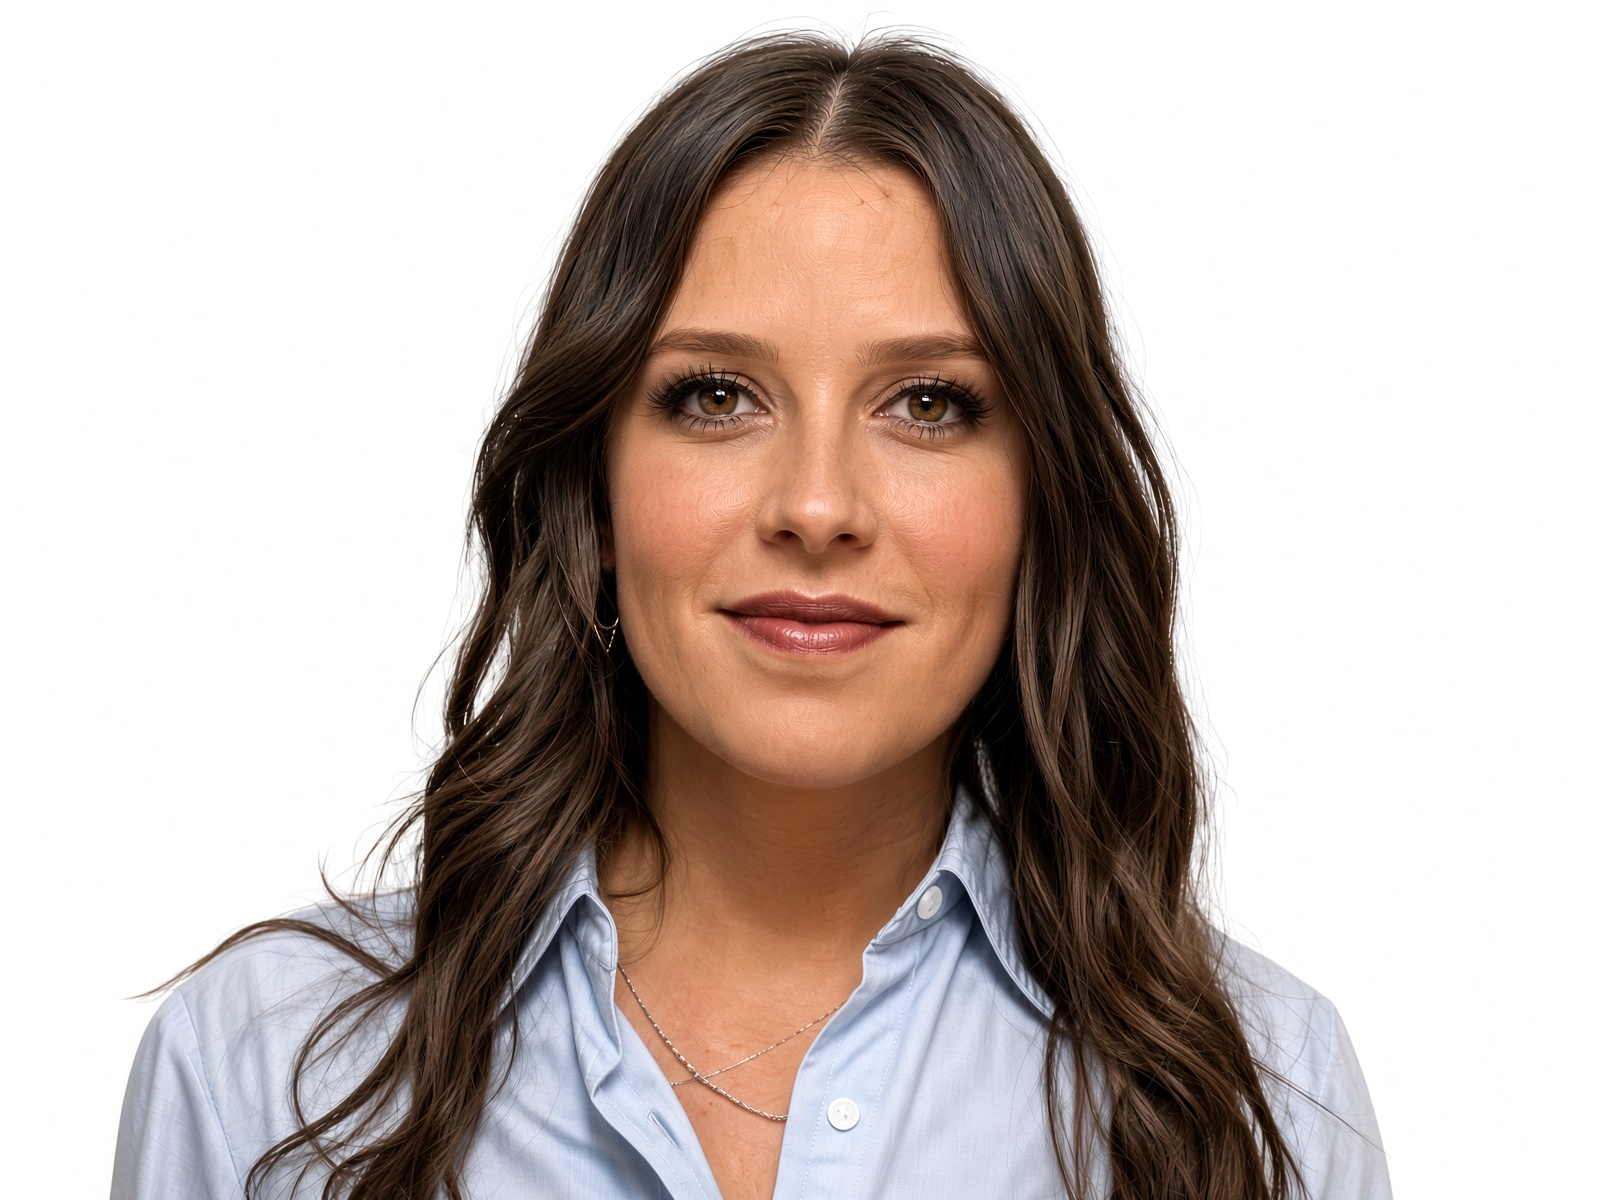
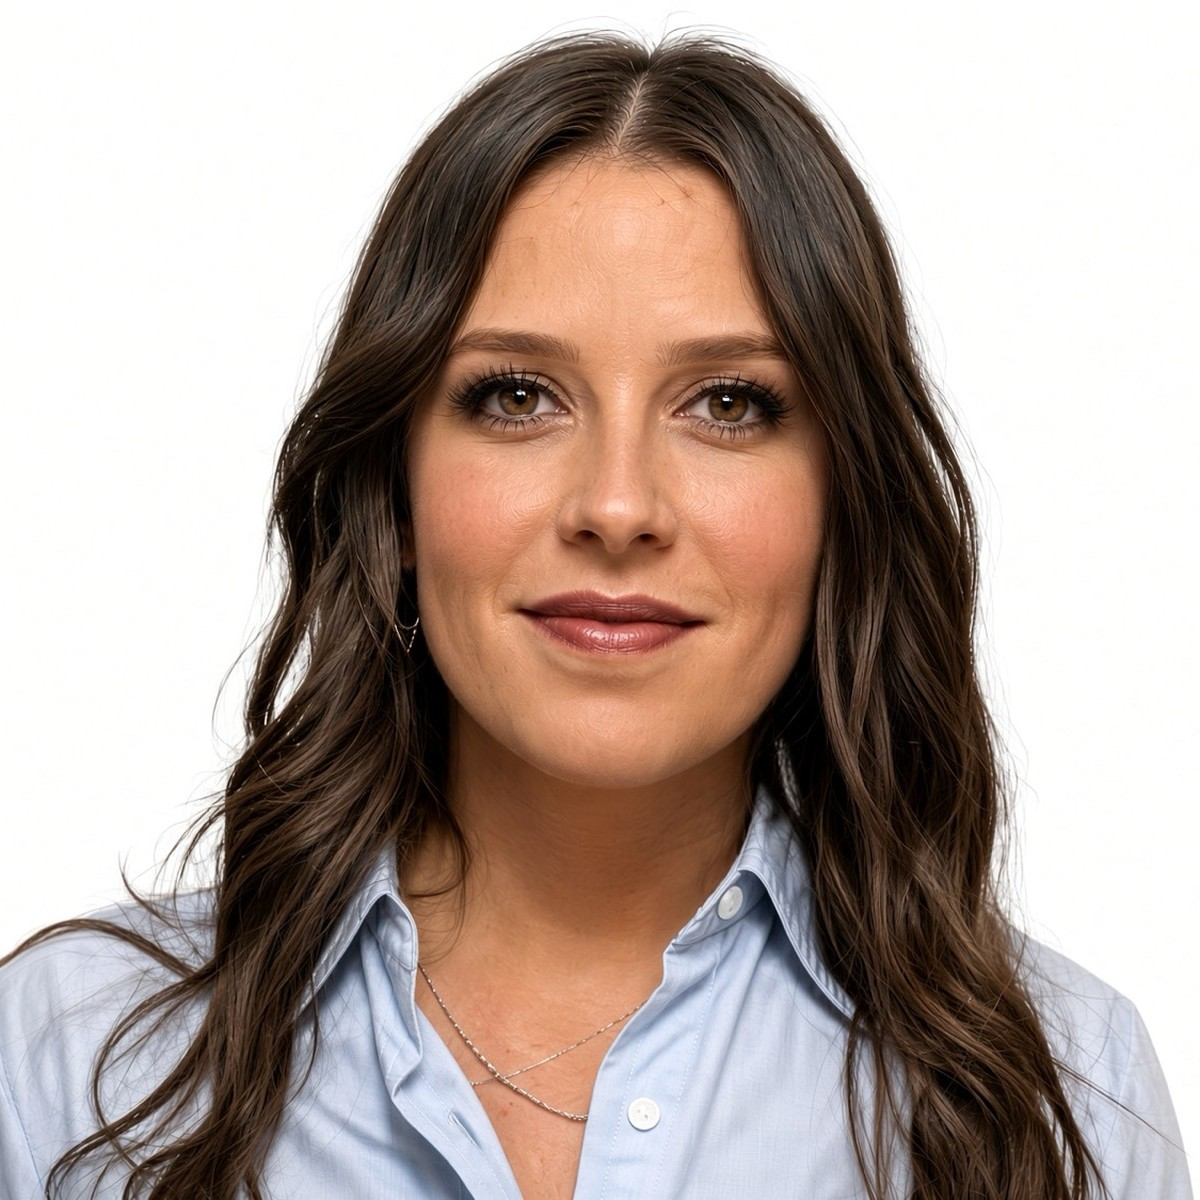
Sostituisci foto équipe: rimuovi vecchie e rinomina le nuove

diff --git a/index.html b/index.html
@@ -3,7 +3,7 @@
 <head>
   <meta charset="UTF-8" />
   <meta name="viewport" content="width=device-width, initial-scale=1" />
-  <title>Studio Pleiadi — Psicologia nel cuore di Milano</title>
+  <title>Studio Pleiadi � Psicologia nel cuore di Milano</title>
   <meta name="description" content="Studio Pleiadi: psicoterapia, DOC, mindfulness e terapie espressive a Milano, Via Faruffini." />
   <link rel="icon" type="image/svg+xml" href="images/favicon.svg" />
   <link rel="preconnect" href="https://fonts.googleapis.com" />
@@ -20,7 +20,7 @@
       <nav class="nav-links" aria-label="Principale">
         <a href="#studio">Lo studio</a>
         <a href="#percorsi">Percorsi</a>
-        <a href="#equipe">Équipe</a>
+        <a href="#equipe">�quipe</a>
         <a href="#risorse">Risorse</a>
         <a href="#contatti">Contatti</a>
       </nav>
@@ -36,7 +36,7 @@
     <nav class="nav-mobile" hidden aria-label="Mobile">
       <a href="#studio">Lo studio</a>
       <a href="#percorsi">Percorsi</a>
-      <a href="#equipe">Équipe</a>
+      <a href="#equipe">�quipe</a>
       <a href="#risorse">Risorse</a>
       <a href="#contatti">Contatti</a>
     </nav>
@@ -51,7 +51,7 @@
           <div class="reveal">
             <p class="eyebrow">Via Faruffini, Milano</p>
             <h1>Uno spazio sicuro<br />per incontrarsi.</h1>
-            <p class="lead">Studio Pleiadi è un angolo di psicologia nel cuore di Milano. Accogliamo adolescenti, giovani e adulti in un clima di fiducia, ascolto e rispetto, dove il dolore può trovare un posto dove andare.</p>
+            <p class="lead">Studio Pleiadi � un angolo di psicologia nel cuore di Milano. Accogliamo adolescenti, giovani e adulti in un clima di fiducia, ascolto e rispetto, dove il dolore pu� trovare un posto dove andare.</p>
           </div>
           <blockquote class="quote-card lift reveal" style="--d:120ms">
             <p>Nella stanza di terapia, il dolore ha finalmente preso un posto dove andare. Quello dei pazienti e il nostro. Tessuti insieme.</p>
@@ -67,24 +67,24 @@
       </div>
       <div class="grid">
         <article class="lift reveal"><h3>Disturbo ossessivo-compulsivo</h3><p>Trattamento specialistico del DOC, in collaborazione con la rete CEDOC, e percorsi anche per chi sta accanto.</p></article>
-        <article class="lift reveal" style="--d:70ms"><h3>Ansia, umore, personalità</h3><p>Supporto per ansia, depressione, disturbi di personalità ed emozioni complesse come vergogna, rabbia e ritiro.</p></article>
-        <article class="lift reveal" style="--d:140ms"><h3>Mindfulness e gruppi</h3><p>Gruppi di mindfulness, libroterapia e crescita personale. Prima dell’ingresso è previsto un breve colloquio conoscitivo.</p></article>
+        <article class="lift reveal" style="--d:70ms"><h3>Ansia, umore, personalit�</h3><p>Supporto per ansia, depressione, disturbi di personalit� ed emozioni complesse come vergogna, rabbia e ritiro.</p></article>
+        <article class="lift reveal" style="--d:140ms"><h3>Mindfulness e gruppi</h3><p>Gruppi di mindfulness, libroterapia e crescita personale. Prima dell�ingresso � previsto un breve colloquio conoscitivo.</p></article>
         <article class="lift reveal" style="--d:210ms"><h3>Corpo, arte, movimento</h3><p>Danzamovimentoterapia e artiterapie per integrare mente e corpo come strumenti di consapevolezza e trasformazione.</p></article>
-        <article class="lift reveal" style="--d:280ms"><h3>Alimentazione e ciclo di vita</h3><p>Percorsi su disturbi dell’alimentazione, transizioni evolutive, lutto, genitorialità e mondo femminile.</p></article>
+        <article class="lift reveal" style="--d:280ms"><h3>Alimentazione e ciclo di vita</h3><p>Percorsi su disturbi dell�alimentazione, transizioni evolutive, lutto, genitorialit� e mondo femminile.</p></article>
         <article class="lift reveal" style="--d:350ms"><h3>Neurodivergenza</h3><p>Sostegno personalizzato per persone con funzionamento neurodivergente, in un lavoro di squadra e senza giudizio.</p></article>
       </div>
     </section>
     <section id="equipe" class="block">
       <div class="reveal">
         <p class="eyebrow">Chi siamo</p>
-        <h2>L’équipe</h2>
+        <h2>L��quipe</h2>
       </div>
       <div class="team-grid">
-        <article class="person lift reveal"><img class="team-photo" src="images/team/martina-giuliano.png" alt="Martina Giuliano" /><p class="role">Fondatrice · Psicoterapeuta CBT</p><h3>Martina Giuliano</h3><p>Lavora a Milano con adolescenti, giovani e adulti. Si occupa soprattutto di DOC, in rete con CEDOC, e di disturbi di personalità. Conduce gruppi di libroterapia, mindfulness e crescita personale.</p><p class="handle">@martimartigiul</p></article>
-        <article class="person lift reveal" style="--d:70ms"><img class="team-photo" src="images/team/simona-rozzi.png" alt="Simona Rozzi" /><p class="role">Medico · Psicoterapeuta</p><h3>Simona Rozzi</h3><p>Specialista in Psicologia Clinica. Integra medicina, relazione e terapie espressive, con specializzazione in danzamovimentoterapia. Offre anche sostegno farmacologico per ansia e depressione.</p><p class="handle">@simona_rozzi</p></article>
-        <article class="person lift reveal" style="--d:140ms"><img class="team-photo" src="images/team/sara-annibali.png" alt="Sara Annibali" /><p class="role">Psicologa · Danzamovimentoterapeuta</p><h3>Sara Annibali</h3><p>Unisce psicologia e artiterapie. Lavora con adolescenti e adulti su ansia, cambiamenti di vita, DOC e disturbi alimentari. In formazione presso la Scuola di Psicoterapia Integrata di Milano.</p><p class="handle">@saraannibali.psicologa</p></article>
-        <article class="person lift reveal" style="--d:210ms"><img class="team-photo" src="images/team/eleonora-lazzarino.png" alt="Eleonora Lazzarino" /><p class="role">Psicologa · Specializzanda CBT</p><h3>Eleonora Lazzarino</h3><p>In formazione presso Studi Cognitivi. Collabora con IRCCS San Raffaele Ville-Turro. Interessi: personalità, DOC, ansia e depressione, con esperienza sui gruppi e sul disturbo borderline.</p><p class="handle">@eleonoralazzarino.psicologa</p></article>
-        <article class="person lift reveal" style="--d:280ms"><img class="team-photo" src="images/team/luana-lablonda.png" alt="Luana Lablonda" /><p class="role">Psicologa · Specializzanda CBT</p><h3>Luana Lablonda</h3><p>Specializzata nel trattamento del DOC. Offre supporto per ansia, stress, lutto, transizioni evolutive e percorsi per il funzionamento neurodivergente.</p><p class="handle">@lablonda_luana_psicologa</p></article>
+        <article class="person lift reveal"><img class="team-photo" src="images/team/martina-giuliano.jpg" alt="Martina Giuliano" /><p class="role">Fondatrice � Psicoterapeuta CBT</p><h3>Martina Giuliano</h3><p>Lavora a Milano con adolescenti, giovani e adulti. Si occupa soprattutto di DOC, in rete con CEDOC, e di disturbi di personalit�. Conduce gruppi di libroterapia, mindfulness e crescita personale.</p><p class="handle">@martimartigiul</p></article>
+        <article class="person lift reveal" style="--d:70ms"><img class="team-photo" src="images/team/simona-rozzi.jpg" alt="Simona Rozzi" /><p class="role">Medico � Psicoterapeuta</p><h3>Simona Rozzi</h3><p>Specialista in Psicologia Clinica. Integra medicina, relazione e terapie espressive, con specializzazione in danzamovimentoterapia. Offre anche sostegno farmacologico per ansia e depressione.</p><p class="handle">@simona_rozzi</p></article>
+        <article class="person lift reveal" style="--d:140ms"><img class="team-photo" src="images/team/sara-annibali.jpg" alt="Sara Annibali" /><p class="role">Psicologa � Danzamovimentoterapeuta</p><h3>Sara Annibali</h3><p>Unisce psicologia e artiterapie. Lavora con adolescenti e adulti su ansia, cambiamenti di vita, DOC e disturbi alimentari. In formazione presso la Scuola di Psicoterapia Integrata di Milano.</p><p class="handle">@saraannibali.psicologa</p></article>
+        <article class="person lift reveal" style="--d:210ms"><img class="team-photo" src="images/team/eleonora-lazzarino.jpg" alt="Eleonora Lazzarino" /><p class="role">Psicologa � Specializzanda CBT</p><h3>Eleonora Lazzarino</h3><p>In formazione presso Studi Cognitivi. Collabora con IRCCS San Raffaele Ville-Turro. Interessi: personalit�, DOC, ansia e depressione, con esperienza sui gruppi e sul disturbo borderline.</p><p class="handle">@eleonoralazzarino.psicologa</p></article>
+        <article class="person lift reveal" style="--d:280ms"><img class="team-photo" src="images/team/luana-lablonda.jpg" alt="Luana Lablonda" /><p class="role">Psicologa � Specializzanda CBT</p><h3>Luana Lablonda</h3><p>Specializzata nel trattamento del DOC. Offre supporto per ansia, stress, lutto, transizioni evolutive e percorsi per il funzionamento neurodivergente.</p><p class="handle">@lablonda_luana_psicologa</p></article>
       </div>
     </section>
     <section id="risorse" class="block">
@@ -94,16 +94,16 @@
         <p class="lead">Articoli, guide e contenuti didattici su psicologia, benessere e temi di interesse. Presto disponibili nuovi approfondimenti.</p>
       </div>
       <div class="grid">
-        <article class="lift reveal"><h3>In arrivo</h3><p>Questa sezione ospiterà articoli e materiali didattici. Torna a trovarci.</p></article>
+        <article class="lift reveal"><h3>In arrivo</h3><p>Questa sezione ospiter� articoli e materiali didattici. Torna a trovarci.</p></article>
         <article class="lift reveal" style="--d:70ms"><h3>Prossimamente</h3><p>Contenuti su DOC, mindfulness, terapie espressive e altro ancora.</p></article>
-        <article class="lift reveal" style="--d:140ms"><h3>Spazio aperto</h3><p>Un luogo dedicato all’informazione e alla crescita personale.</p></article>
+        <article class="lift reveal" style="--d:140ms"><h3>Spazio aperto</h3><p>Un luogo dedicato all�informazione e alla crescita personale.</p></article>
       </div>
     </section>
     <section id="contatti" class="block">
       <div class="reveal">
         <p class="eyebrow">Scrivici</p>
-        <h2>Vuoi saperne di più?</h2>
-        <p class="lead">È già possibile manifestare il proprio interesse. Prima dell’ingresso nei gruppi è previsto un breve colloquio conoscitivo.</p>
+        <h2>Vuoi saperne di pi�?</h2>
+        <p class="lead">� gi� possibile manifestare il proprio interesse. Prima dell�ingresso nei gruppi � previsto un breve colloquio conoscitivo.</p>
       </div>
       <div class="contact-card">
         <a class="lift reveal" href="mailto:studiopleiadi.psicologia@gmail.com"><strong>Email</strong>studiopleiadi.psicologia@gmail.com</a>
@@ -114,7 +114,7 @@
   </main>
   <footer>
     <div class="footer-card lift reveal">
-      <img class="footer-logo" src="images/logo-pleiadi.png" alt="Studio Pleiadi" /><p>Studio Pleiadi · Milano</p>
+      <img class="footer-logo" src="images/logo-pleiadi.png" alt="Studio Pleiadi" /><p>Studio Pleiadi � Milano</p>
       <p class="muted">Ascolto, presenza, relazione.</p>
       <div class="nav-actions">
         <a class="ig-btn" href="https://www.instagram.com/studiopleiadi/" target="_blank" rel="noopener" aria-label="Instagram Studio Pleiadi">
